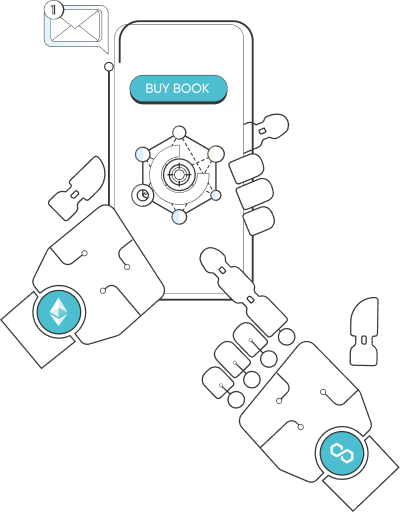
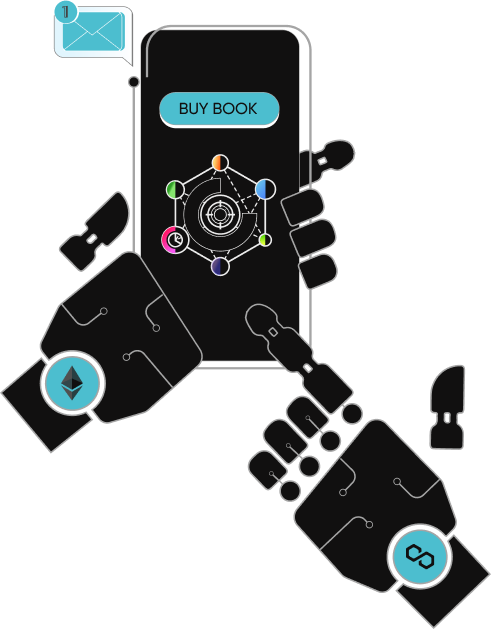
Redising no data in my NFTs, technical work, about us pages

diff --git a/src/pages/my-nfts/MyNftsNoData.vue b/src/pages/my-nfts/MyNftsNoData.vue
@@ -1,40 +1,36 @@
 <template>
   <div class="my-nfts-no-data">
-    <div class="my-nfts-no-data__img-wrapper">
-      <img
-        class="my-nfts-no-data__img"
-        src="/images/books-no-data.png"
-        alt="Books no data image"
-      />
-    </div>
-    <div class="my-nfts-no-data__content">
-      <p v-if="isNotConnected" class="my-nfts-no-data__message">
-        {{ $t('my-nfts-no-data.connect-metamask-message') }}
+    <img
+      class="my-nfts-no-data__img"
+      src="/images/books-no-data.png"
+      alt="Books no data image"
+    />
+    <p v-if="isNotConnected" class="my-nfts-no-data__message">
+      {{ $t('my-nfts-no-data.connect-metamask-message') }}
+    </p>
+    <template v-else>
+      <p class="my-nfts-no-data__message">
+        {{ $t('my-nfts-no-data.message-first') }}
       </p>
-      <template v-else>
-        <p class="my-nfts-no-data__message">
-          {{ $t('my-nfts-no-data.message-first') }}
-        </p>
-        <p class="my-nfts-no-data__message">
-          {{ $t('my-nfts-no-data.message-second') }}
-        </p>
-      </template>
-      <app-button
-        v-if="isNotConnected"
-        class="my-nfts-no-data__marketplace-btn"
-        :text="$t('my-nfts-no-data.connect-metamask-btn')"
-        :icon-left="$icons.metamask"
-        @click="provider.connect"
-      />
-      <app-button
-        v-else
-        class="my-nfts-no-data__marketplace-btn"
-        size="large"
-        :icon-right="$icons.arrowRight"
-        :text="$t('my-nfts-no-data.marketplace-btn')"
-        :route="{ name: $routes.bookshelf }"
-      />
-    </div>
+      <p class="my-nfts-no-data__message">
+        {{ $t('my-nfts-no-data.message-second') }}
+      </p>
+    </template>
+    <app-button
+      v-if="isNotConnected"
+      class="my-nfts-no-data__marketplace-btn"
+      :text="$t('my-nfts-no-data.connect-metamask-btn')"
+      :icon-left="$icons.metamask"
+      @click="provider.connect"
+    />
+    <app-button
+      v-else
+      class="my-nfts-no-data__marketplace-btn"
+      size="large"
+      :icon-right="$icons.arrowRight"
+      :text="$t('my-nfts-no-data.marketplace-btn')"
+      :route="{ name: $routes.bookshelf }"
+    />
   </div>
 </template>
 
@@ -58,44 +54,22 @@ withDefaults(
 
 <style lang="scss" scoped>
 .my-nfts-no-data {
-  display: grid;
-  grid-template-columns: minmax(toRem(270), toRem(370)) minmax(toRem(350), 1fr);
+  display: flex;
+  flex-direction: column;
   align-items: center;
-  grid-gap: toRem(70);
-
-  @include respond-to(tablet) {
-    grid-template-columns: 1fr;
-  }
-}
-
-.my-nfts-no-data__img-wrapper {
-  max-width: toRem(370);
-
-  @include respond-to(tablet) {
-    justify-self: center;
-  }
+  justify-self: center;
 }
 
 .my-nfts-no-data__img {
   width: 100%;
-}
-
-.my-nfts-no-data__content {
-  display: flex;
-  flex-direction: column;
-
-  @include respond-to(tablet) {
-    align-items: center;
-    justify-self: center;
-  }
+  max-width: toRem(370);
+  margin-bottom: toRem(44);
 }
 
 .my-nfts-no-data__message {
   @include info-headline;
 
-  @include respond-to(tablet) {
-    text-align: center;
-  }
+  color: var(--text-primary-invert-main);
 }
 
 .my-nfts-no-data__marketplace-btn {

diff --git a/src/pages/my-nfts/MyNFTsPage.vue b/src/pages/my-nfts/MyNFTsPage.vue
@@ -1,6 +1,6 @@
 <template>
   <div class="my-nfts-page">
-    <h3>
+    <h3 class="my-nfts-page__title">
       {{ $t('my-nfts-page.title') }}
     </h3>
     <template v-if="provider.isConnected">
@@ -30,11 +30,11 @@
           @click="loadNextPage"
         />
       </template>
-
       <my-nfts-no-data v-else />
     </template>
 
     <my-nfts-no-data v-else is-not-connected />
+    <img class="my-nfts-page__cubes" src="/images/background-cubes.png" />
   </div>
 </template>
 
@@ -89,18 +89,50 @@ function onError(e: Error) {
 .my-nfts-page {
   display: flex;
   flex-direction: column;
-  flex: 1;
-  gap: toRem(34);
   padding-top: toRem(70);
   padding-bottom: toRem(200);
-  background: url('/images/background-cubes.png') no-repeat right center /
-    contain;
-  background-size: clamp(toRem(300), 30%, toRem(400));
+  overflow: hidden;
+  position: relative;
+  background-color: var(--background-quinary);
+  z-index: var(--z-index-layer-1);
+
+  /* Gray bg under the header */
+  &:after {
+    content: '';
+    position: absolute;
+    top: toRem(-500);
+    left: toRem(600);
+    transform: rotate(-10deg);
+    width: 120vw;
+    height: toRem(600);
+    background-size: 45%;
+    background-color: var(--background-secondary);
+    border-radius: toRem(300);
+    z-index: var(--z-index-layer-bottom);
+
+    @include respond-to(medium) {
+      left: toRem(-60);
+      width: 160vw;
+      top: toRem(-580);
+    }
+
+    @include respond-to(small) {
+      top: toRem(-250);
+      left: toRem(-60);
+      width: 160vw;
+      border-radius: toRem(200);
+      height: 205vw;
+    }
+  }
 
   @include respond-to(tablet) {
     padding-top: toRem(10);
     padding-bottom: toRem(80);
   }
+}
+
+.my-nfts-page__title {
+  color: var(--text-primary-invert-main);
 }
 
 .my-nfts-page__list {
@@ -111,5 +143,17 @@ function onError(e: Error) {
 
 .my-nfts-page__load-more-btn {
   margin: toRem(20) auto 0;
+}
+
+.my-nfts-page__cubes {
+  position: absolute;
+  max-width: min-content;
+  width: 40%;
+  right: 0;
+  bottom: toRem(-150);
+
+  @include respond-to(medium) {
+    display: none;
+  }
 }
 </style>

diff --git a/src/pages/TechnicalWork.vue b/src/pages/TechnicalWork.vue
@@ -24,8 +24,39 @@
   display: flex;
   flex: 1;
   justify-content: center;
-  gap: toRem(100);
+  overflow: hidden;
   position: relative;
+  gap: toRem(100);
+  background-color: var(--background-quinary);
+
+  /* Gray bg under the header */
+  &:after {
+    content: '';
+    position: absolute;
+    top: toRem(-600);
+    left: toRem(600);
+    transform: rotate(-10deg);
+    width: 120vw;
+    height: toRem(600);
+    background-size: 45%;
+    background-color: var(--background-secondary);
+    border-radius: toRem(300);
+    z-index: var(--z-index-layer-1);
+
+    @include respond-to(medium) {
+      left: toRem(-60);
+      width: 160vw;
+      top: toRem(-580);
+    }
+
+    @include respond-to(small) {
+      top: toRem(-250);
+      left: toRem(-60);
+      width: 160vw;
+      border-radius: toRem(200);
+      height: 205vw;
+    }
+  }
 
   @include respond-to(tablet) {
     flex-direction: column;
@@ -38,13 +69,13 @@
 .technical-work__background {
   background: url('/images/technical-background.png') no-repeat left bottom /
     contain;
-  background-size: clamp(toRem(300), 50%, toRem(800));
+  background-size: 45vw;
   width: 100%;
   height: 100%;
   position: absolute;
   z-index: var(--z-index-layer-1);
   left: 0;
-  bottom: 0;
+  bottom: toRem(-150);
 }
 
 .technical-work__info {
@@ -65,6 +96,7 @@
 .technical-work__subtitle {
   font-size: toRem(24);
   font-weight: 500;
+  color: var(--white);
 
   @include respond-to(tablet) {
     font-size: toRem(18);

diff --git a/src/pages/about-us/AboutUs.vue b/src/pages/about-us/AboutUs.vue
@@ -15,19 +15,20 @@
       class="about-us__cubes about-us__cubes--right"
       :src="CUBES_IMAGES.RIGHT"
     />
+    <div class="about-us__quote-card-wrapper">
+      <about-us-quote-card
+        class="about-us__quote-card"
+        :title="$t('about-us-page.founder-title')"
+        :subtitle="$t('about-us-page.founder-subtitle')"
+        :image="FOUNDERS_IMAGES.KRAVCHENKO"
+        :quotes-list="KravchenkoQuotes"
+      />
 
-    <about-us-quote-card
-      class="about-us__quote-card"
-      :title="$t('about-us-page.founder-title')"
-      :subtitle="$t('about-us-page.founder-subtitle')"
-      :image="FOUNDERS_IMAGES.KRAVCHENKO"
-      :quotes-list="KravchenkoQuotes"
-    />
-
-    <img
-      class="about-us__cubes about-us__cubes--left"
-      :src="CUBES_IMAGES.LEFT"
-    />
+      <img
+        class="about-us__cubes about-us__cubes--left"
+        :src="CUBES_IMAGES.LEFT"
+      />
+    </div>
 
     <about-us-quote-card
       class="about-us__quote-card"
@@ -79,6 +80,18 @@ const KurbatovQuotes = [
   padding: 0;
   background-color: var(--background-quinary);
   position: relative;
+}
+
+.about-us__quote-card-wrapper {
+  overflow: hidden;
+  position: relative;
+  margin: toRem(60);
+  border-radius: toRem(30);
+
+  @include respond-to(medium) {
+    margin: 0;
+    border-radius: 0;
+  }
 }
 
 .about-us__quote-card {

diff --git a/src/router/index.ts b/src/router/index.ts
@@ -35,6 +35,7 @@ const routes: Array<RouteRecordRaw> = [
     path: '/my-nfts',
     name: ROUTE_NAMES.myNfts,
     component: () => import('@/pages/my-nfts/MyNFTsPage.vue'),
+    meta: { [ROUTE_METAS.isDarkPage]: true },
   },
   {
     path: '/my-nft/:id',
@@ -52,6 +53,7 @@ const routes: Array<RouteRecordRaw> = [
     path: '/technical-work',
     name: ROUTE_NAMES.technicalWork,
     component: () => import('@/pages/TechnicalWork.vue'),
+    meta: { [ROUTE_METAS.isDarkPage]: true },
   },
 ]
 

diff --git a/static/branding/_app-colors.scss b/static/branding/_app-colors.scss
@@ -4,7 +4,7 @@ $black: #000000;
 $black-rgb: hexToRGB($black);
 
 $background-primary: #ffffff;
-$background-secondary: #232323;
+$background-secondary: #1c1c1c;
 $background-tertiary: #fafafa;
 $background-quaternary: #313131;
 $background-quinary: #111010;

diff --git a/src/styles/global.scss b/src/styles/global.scss
@@ -23,7 +23,7 @@ body, #app {
   display: flex;
   flex-direction: column;
   flex: 1;
-  background-color: var(--background-primary);
+  background-color: var(--background-secondary);
   color: var(--text-primary-main);
 }
 
